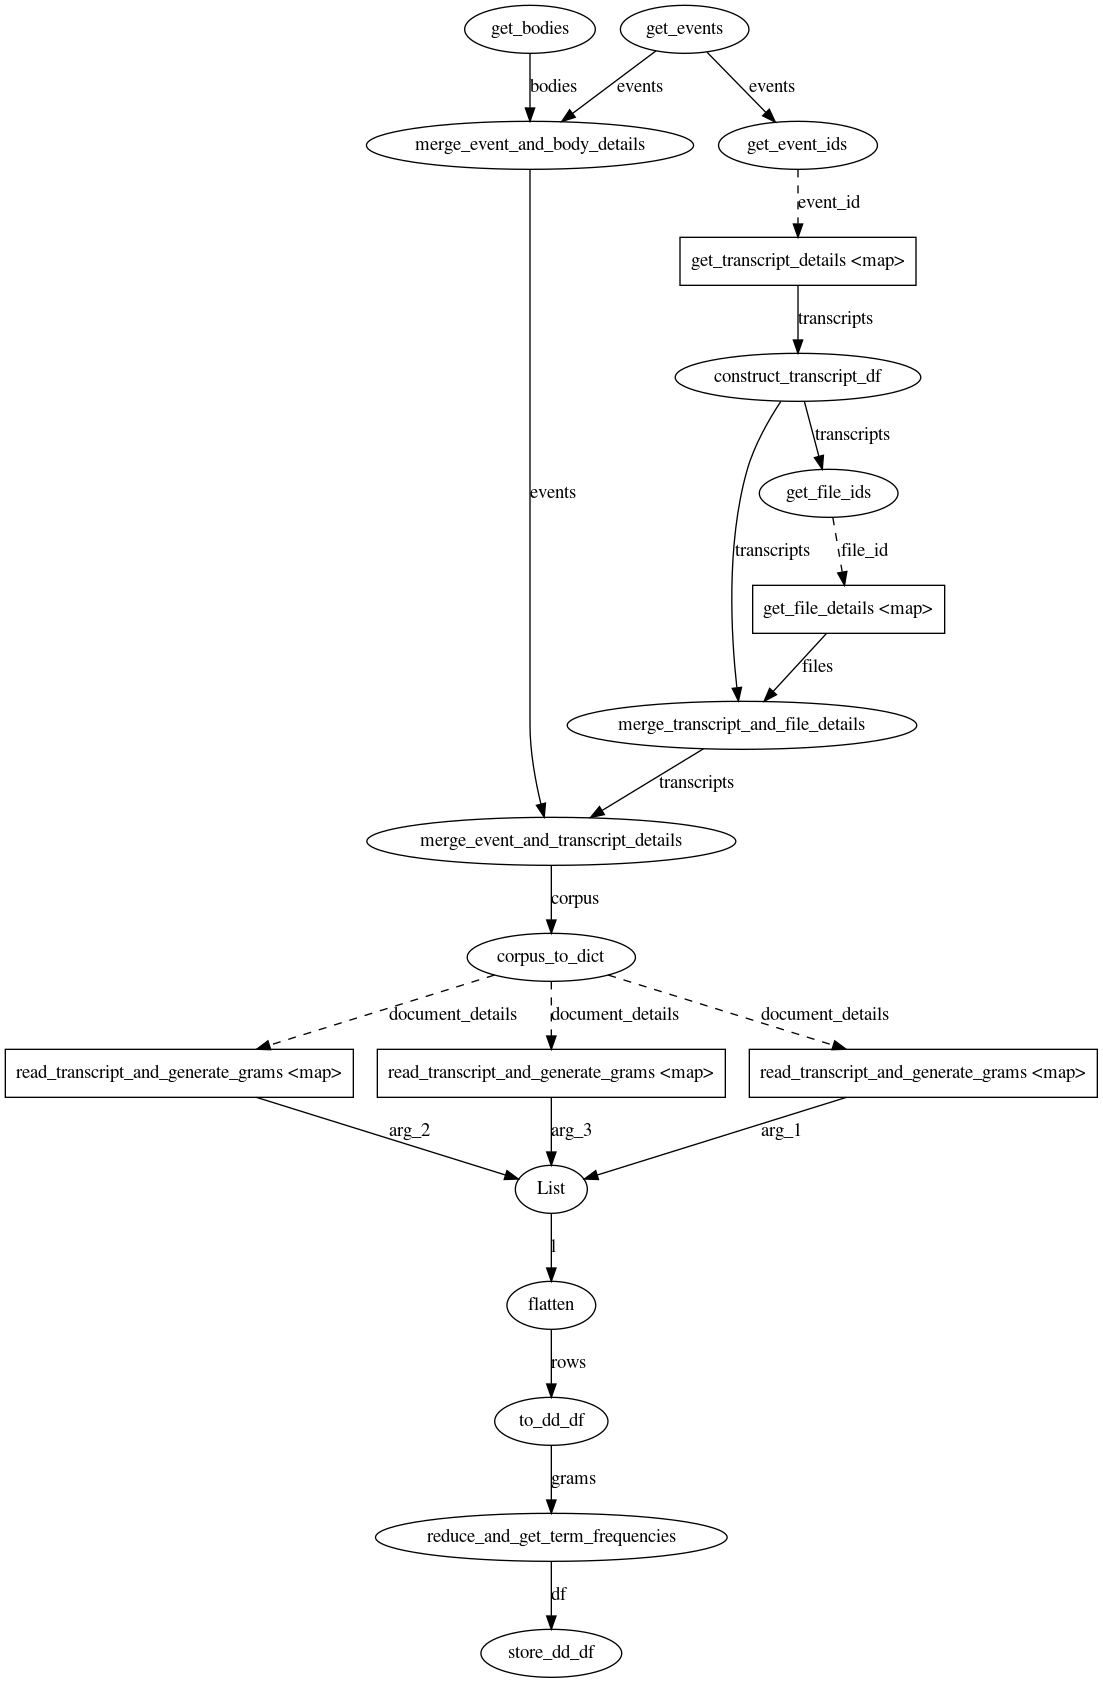
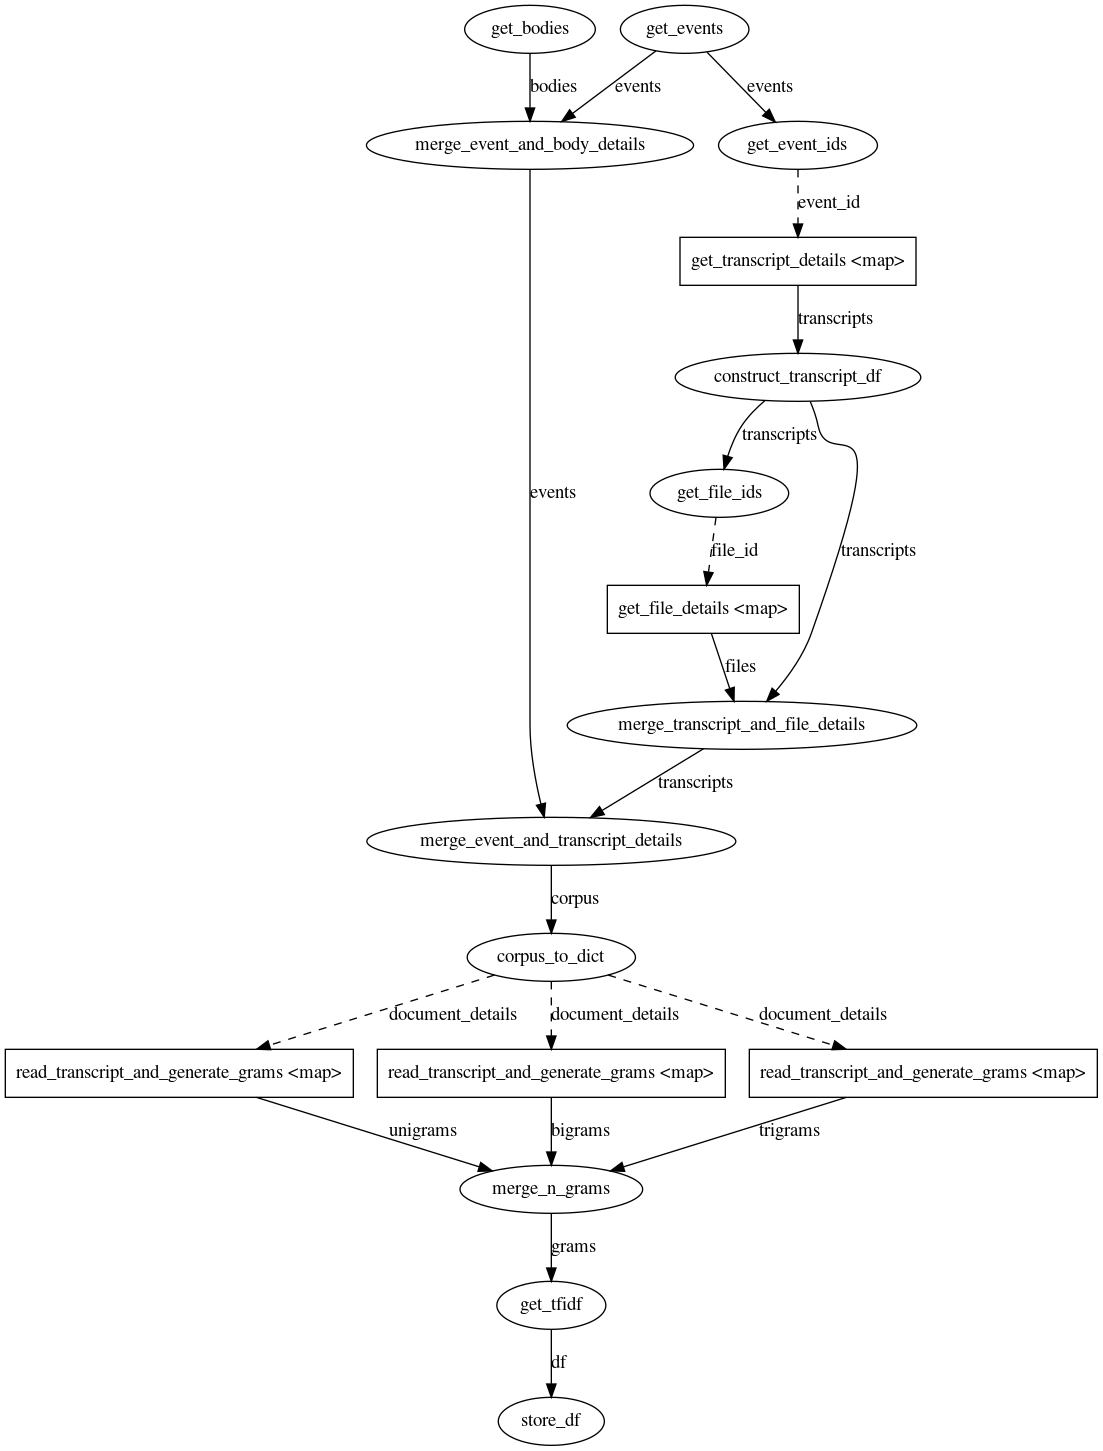
Get better context span, use dataframe for tf and df

diff --git a/cdptools/pipelines/event_index_pipeline.py b/cdptools/pipelines/event_index_pipeline.py
@@ -3,19 +3,21 @@
 
 import json
 import logging
+import math
 from pathlib import Path
 from typing import Dict, Iterable, List, Union
 
-import dask.config
-import dask.dataframe as dd
 import pandas as pd
 from boto3.session import Session
 from dask_cloudprovider import FargateCluster
 from distributed import Client, LocalCluster
 from nltk import ngrams
-from nltk.stem import PorterStemmer
+from nltk.stem import SnowballStemmer
 from prefect import Flow, task, unmapped
 from prefect.engine.executors import DaskExecutor
+
+import dask.config
+import dask.dataframe as dd
 
 from ..databases import Database, OrderOperators
 from ..dev_utils import load_custom_object
@@ -34,7 +36,11 @@ log = logging.getLogger(__name__)
 @task
 def get_events(db: Database) -> pd.DataFrame:
     # Get transcript dataset
-    return pd.DataFrame(db.select_rows_as_list("event", limit=int(100)))
+    return pd.DataFrame(
+        db.select_rows_as_list(
+            "event", limit=int(100), order_by=("event_datetime", OrderOperators.desc)
+        )
+    )
 
 
 @task
@@ -122,6 +128,13 @@ def corpus_to_dict(corpus: pd.DataFrame) -> List[Dict]:
     return corpus[["event_id", "uri"]].to_dict("records")
 
 
+class SentenceManager:
+
+    def __init__(self, raw: str, cleaned: str):
+        self.raw = raw
+        self.cleaned = cleaned
+        self.grams = None
+
 @task
 def read_transcript_and_generate_grams(
     document_details: Dict,
@@ -145,65 +158,79 @@ def read_transcript_and_generate_grams(
 
     # Get list of cleaned sentences
     sentences = [s for s in raw_doc.split(". ") if len(s) > 0]
-    cleaned_sentences = [Indexer.clean_doc(s) for s in sentences]
-    cleaned_sentences = [s for s in cleaned_sentences if s is not None]
+    sms = [SentenceManager(s, Indexer.clean_doc(s)) for s in sentences]
+    sms = [sm for sm in sms if sm.cleaned is not None]
 
     # Get ngrams
-    grams = []
-    for cleaned_sentence in cleaned_sentences:
-        grams += [*ngrams(cleaned_sentence.split(), n_gram_size)]
+    for sm in sms:
+        sm.grams = [*ngrams(sm.cleaned.split(), n_gram_size)]
 
     # Spawn stemmer
-    ps = PorterStemmer()
+    stemmer = SnowballStemmer("english")
 
     # Create list of grams
     ngram_results = []
-    for gram in grams:
-        # Join ngram to single string
-        unstemmed_gram = " ".join(gram)
+    for sm in sms:
+        for gram in sm.grams:
+            # Join ngram to single string
+            unstemmed_gram = " ".join(gram)
 
-        # Get context span
-        for cleaned_sentence in cleaned_sentences:
-            if unstemmed_gram in cleaned_sentence:
-                context_span = cleaned_sentence
-                break
+            # Join, lower, and stem the gram
+            stemmed_gram = " ".join([stemmer.stem(term.lower()) for term in gram])
 
-        # Join, lower, and stem the gram
-        stemmed_gram = " ".join([ps.stem(term.lower()) for term in gram])
-
-        ngram_results.append({
-            "event_id": document_details["event_id"],
-            "unstemmed_gram": unstemmed_gram,
-            "stemmed_gram": stemmed_gram,
-            "context_span": context_span,
-        })
+            ngram_results.append({
+                "event_id": document_details["event_id"],
+                "unstemmed_gram": unstemmed_gram,
+                "stemmed_gram": stemmed_gram,
+                "context_span": sm.raw,
+            })
 
     return ngram_results
 
 
-@task
-def flatten(l: List):
-    if l == []:
-        return l
-    if isinstance(l[0], list):
-        return flatten(l[0]) + flatten(l[1:])
-    return l[:1] + flatten(l[1:])
+def flatten(items: Iterable[Iterable]) -> List:
+    return [item for iterable in items for item in iterable]
 
 
 @task
-def to_dd_df(rows: List[Dict]) -> dd.DataFrame:
-    return dd.from_pandas(pd.DataFrame(rows), chunksize=10000)
+def merge_n_grams(
+    unigrams: List[Dict], bigrams: List[Dict], trigrams: List[Dict]
+) -> dd.DataFrame:
+    df = dd.from_pandas(
+        pd.DataFrame([*flatten(unigrams), *flatten(bigrams), *flatten(trigrams)]),
+        chunksize=100000,
+        sort=False,
+    )
+
+    return df.reset_index()
 
 
 @task
-def reduce_and_get_term_frequencies(grams: dd.DataFrame) -> dd.DataFrame:
-    grams["tf"] = grams.stemmed_gram.groupby(grams.stemmed_gram).transform("count")
-    grams = grams.drop_duplicates("stemmed_gram")
+def get_tfidf(grams: dd.DataFrame) -> dd.DataFrame:
+    # Create value counts, drop duplicates, return
+    grams = grams.assign(
+        tf=grams\
+            .groupby(["event_id", "stemmed_gram"])\
+            .stemmed_gram\
+            .transform("count", meta=("int")),
+    )
+    grams = grams.drop_duplicates(["event_id", "stemmed_gram"])
+    grams = grams.assign(
+        df=grams.groupby("stemmed_gram").event_id.transform("count", meta=("int")),
+    )
+    grams = grams.assign(
+        df_updated=grams.apply(
+                lambda row: len([grams.stemmed_gram == row.stemmed_gram]),
+                axis=1,
+                meta=("int"),
+            ),
+    )
+
     return grams
 
 
 @task
-def store_dd_df(df: dd.DataFrame, filename: str) -> dd.DataFrame:
+def store_df(df: dd.DataFrame, filename: str) -> dd.DataFrame:
     df.to_csv(filename, index=False)
 
     return df
@@ -277,21 +304,18 @@ class EventIndexPipeline(Pipeline):
             )
 
             # Merge together
-            ngrams = flatten([unigrams, bigrams, trigrams])
+            ngrams = merge_n_grams(unigrams, bigrams, trigrams)
 
-            # To dask dataframe
-            ngrams = to_dd_df(ngrams)
-
-            # Get term frequencies
-            ngrams = reduce_and_get_term_frequencies(ngrams)
+            # Get tfidf
+            tf = get_tfidf(ngrams)
 
             # Store term frequencies results
-            ngrams = store_dd_df(ngrams, "ngrams-*.csv")
+            tf = store_df(tf, "tfidf-*.csv")
 
         # Configure dask config
-        dask.config.set(
-            {"scheduler.work-stealing": False}
-        )
+        # dask.config.set(
+        #     {"scheduler.work-stealing": False}
+        # )
 
         # Configure boto3
         cdp_session = Session(profile_name="cdp")
@@ -309,7 +333,7 @@ class EventIndexPipeline(Pipeline):
         log.info(f"Dashboard available at: {client.dashboard_link}")
 
         # Run
-        state = flow.run(executor=DaskExecutor(address=cluster.scheduler_address))
+        flow.run(executor=DaskExecutor(address=cluster.scheduler_address))
 
         # Visualize
         flow.visualize(filename="event-index-pipeline", format="png")
